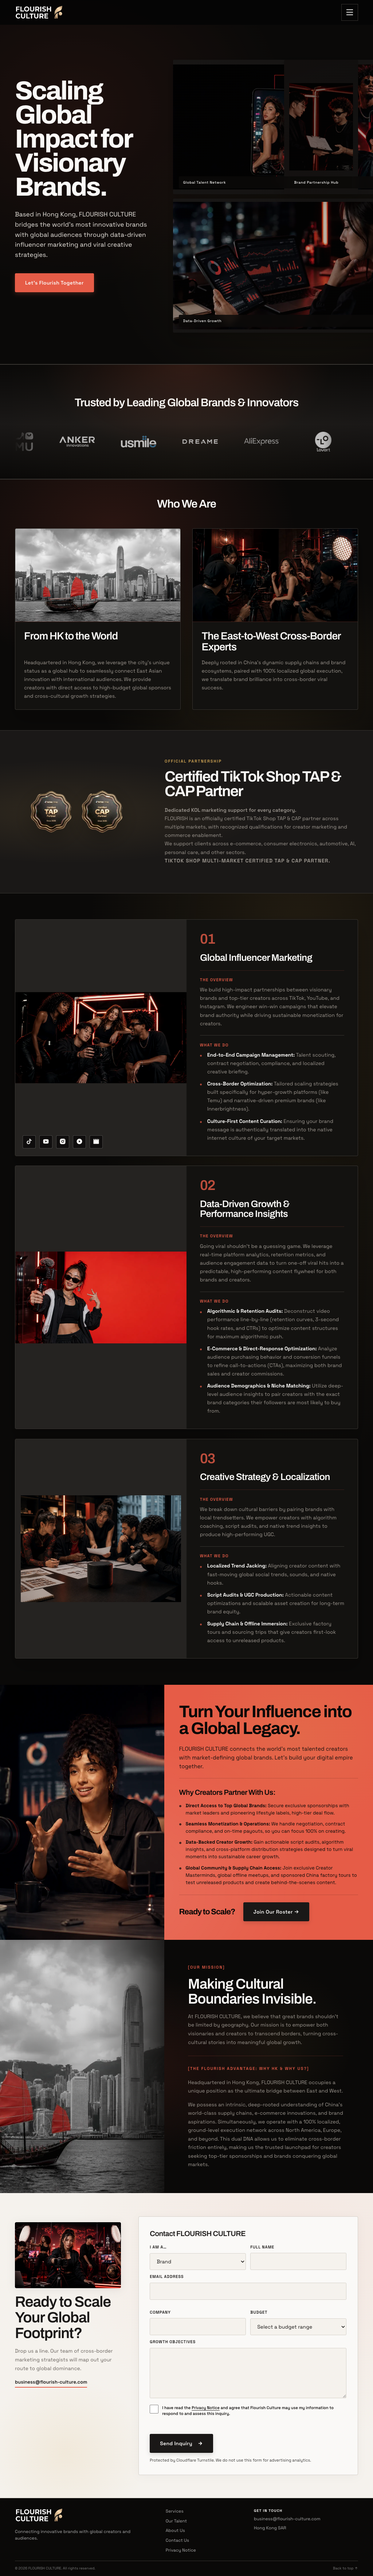
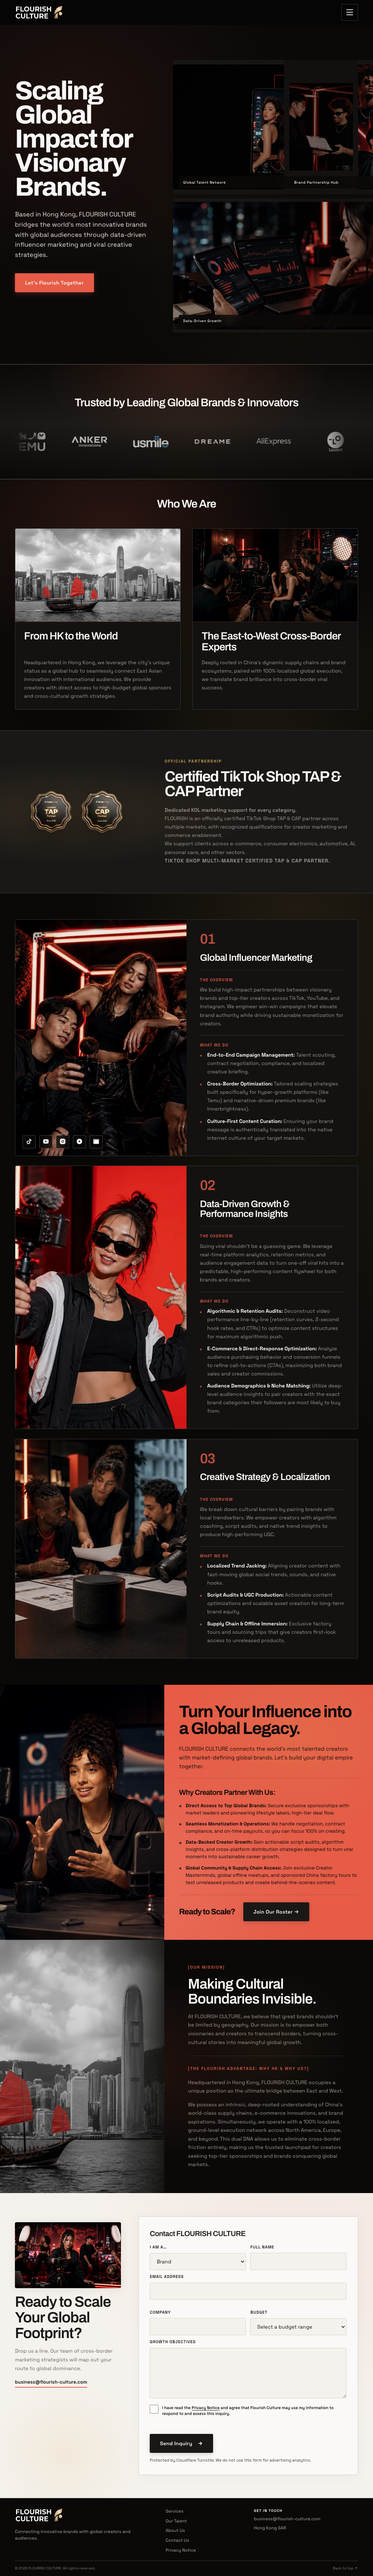
fix: fill service media columns

Changed region(s): [[0.0312, 0.3423, 0.5, 0.6535], [0.8438, 0.1556, 0.9062, 0.1867], [0.0625, 0.1556, 0.125, 0.1867]]

diff --git a/styles.css b/styles.css
@@ -1079,7 +1079,7 @@ h1 {
 .service-media .service-media-frame {
   display: block;
   width: 100%;
-  aspect-ratio: 16 / 10;
+  height: 100%;
   overflow: hidden;
   background: var(--ink-light);
 }
@@ -1088,10 +1088,14 @@ h1 {
   width: 100%;
   height: 100%;
   min-height: 0;
-  object-fit: contain;
+  object-fit: cover;
   object-position: center;
   filter: saturate(0.92) contrast(1.03) brightness(0.93);
   transition: filter 0.5s ease;
+}
+
+.service-media-frame img[src*="creator-recruitment"] {
+  object-position: 20% center;
 }
 
 .service-block:hover .service-media-frame img {
@@ -2117,6 +2121,11 @@ textarea:user-invalid {
   .about,
   .contact-layout {
     grid-template-columns: 1fr;
+  }
+
+  .service-media .service-media-frame {
+    height: auto;
+    aspect-ratio: 16 / 10;
   }
 
   .about {

diff --git a/docs/superpowers/specs/2026-08-25-unified-service-media-design.md b/docs/superpowers/specs/2026-08-25-unified-service-media-design.md
@@ -9,43 +9,38 @@ checks. It does not change Contact, APIs, Nginx, deployment, or the logo rail.
 ## Confirmed outcome
 
 - Use equal desktop columns: 50% media and 50% copy.
-- Give all three Service images one visible 16:10 frame.
-- Preserve the complete supplied image in each frame; no person, camera, or
-  speaker may be cropped by `object-fit: cover`.
-- Use the existing dark surface as the frame matte rather than generating new
-  image assets or adding a blurred backdrop.
-- Keep mobile as a single-column stack with the same 16:10 image frame.
+- Fill each desktop Service media column with its image.
+- Use `object-fit: cover` for the desktop full-bleed treatment; Service 02
+  keeps the camera and presenter in view through a left-biased focal point.
+- Keep mobile as a single-column stack with a 16:10 full-bleed image frame.
 - Allow long service headings to wrap inside the 50% copy column without
   horizontal overflow.
 
 ## Layout treatment
 
 On desktop, each Service card remains a two-column grid. Its media and copy
-tracks are equal width. The media column remains the full card height so its
-background aligns with the copy panel. Inside it, the `picture` element becomes
-a centered 16:10 frame. The contained image fills that frame as far as its
-native ratio allows. Any residual area is the existing dark matte.
-
-This preserves image content without inventing pixels. The supplied Service 01
-and Service 02 images are about 1.875:1 and the Service 03 image is 1.5:1, so
-16:10 keeps the first two almost full-width and the third nearly full-height.
+tracks are equal width. The media frame stretches to the full card height, and
+its image uses a cover treatment without a residual matte. On mobile, the
+frame returns to a 16:10 aspect ratio while retaining the same full-bleed
+treatment.
 
 ## Responsive and interaction rules
 
 - At the existing mobile breakpoint, cards still stack without horizontal
-  overflow; the media frame remains 16:10.
+  overflow; the full-bleed media frame remains 16:10.
 - Existing hover filter behavior remains, but the scale transform is removed
   from Service images so hover cannot reintroduce cropping.
 - The social platform chips stay anchored to Service 01's media column.
 
 ## Acceptance checks
 
-- Static tests assert the two 1fr desktop tracks, the 16:10 visible media frame,
-  `object-fit: contain`, safe heading wrapping, and no Service-image hover scale.
+- Static tests assert the two 1fr desktop tracks, desktop media-frame fill,
+  `object-fit: cover`, the mobile 16:10 frame, safe heading wrapping, and no
+  Service-image hover scale.
 - Build succeeds.
 - Four-viewport browser QA records no horizontal overflow or console errors.
-- Desktop visual QA confirms that all three photos use an equal 16:10 frame and
-  retain the full supplied image content.
+- Desktop visual QA confirms that all three photos fill their media columns and
+  that Service 02 retains both camera and presenter.
 
 ## Non-goals
 

diff --git a/docs/CHANGELOG.md b/docs/CHANGELOG.md
@@ -16,7 +16,7 @@ acceptance remain incomplete.
 - Added the English “Official Partnership” proof section between Who We Are and Services, with transparent TAP and CAP badge derivatives on the left and partner copy on the right.
 - Re-exported the TAP/CAP badges from the complete supplied reference after detecting a clipped TAP contour; reduced the header lockup and added explicit badge padding so neither treatment touches its container edges.
 - Replaced brightness-based badge background removal with edge-connected background removal; verified the exterior edge columns are transparent while TAP/CAP letter highlights remain intact.
-- Standardized the three Service media panels as 50/50 cards with centered 16:10 complete-image frames, dark matte breathing room, safe heading wrapping, and no hover zoom crop.
+- Updated the three Service media panels to fill 50/50 desktop cards with full-bleed cover imagery; mobile keeps 16:10 cover frames, Service 02 retains its camera and presenter through a left-biased focal point, headings wrap safely, and hover does not zoom images.
 - This is a local source candidate only: no archive, production deployment, rollback snapshot or public read-back has been performed.
 
 | Version | Date | Status | Notes |
